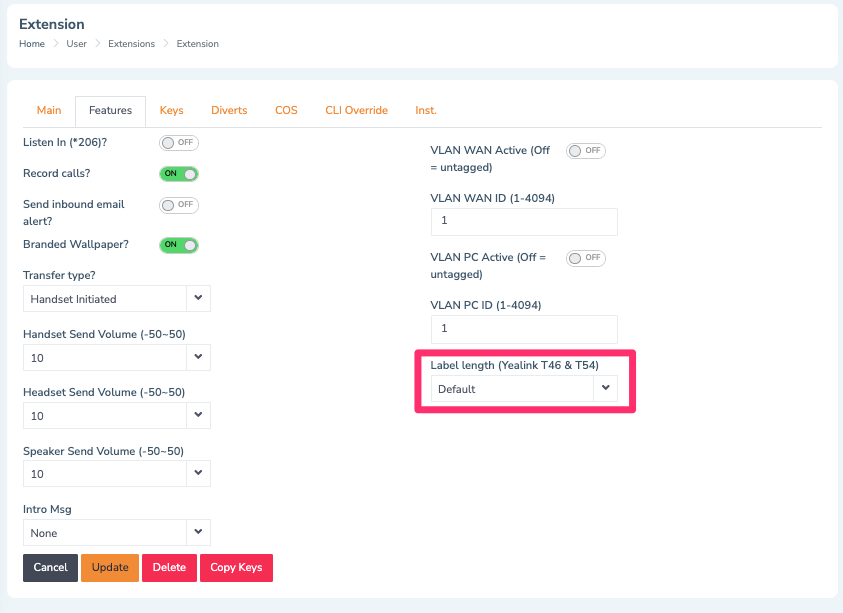
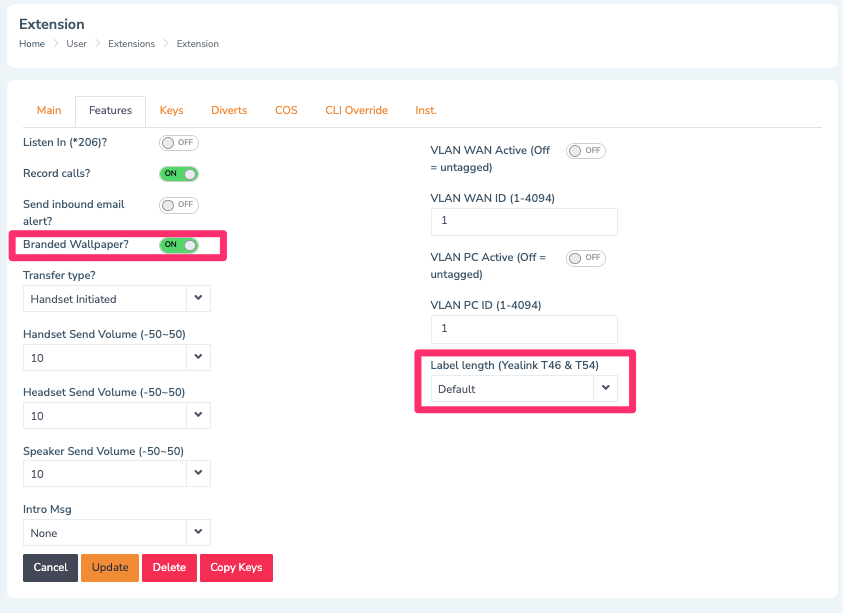
2.1.7

Changed region(s): [[0.0, 0.3719, 0.2776, 0.4339]]

diff --git a/2.1.7/2.1.7.md b/2.1.7/2.1.7.md
@@ -4,7 +4,13 @@
 
 Ability to increase the length of the function keys length on screen
 
-#### Setting the feature (Extensions > Features tab)
+###Branded Wallpaper (all deskphones)
+
+Ability to increase the length of the function keys length on screen
+
+---
+
+#### Setting the features (Extensions > Features tab)
 ![](https://github.com/codebase-technology/Telemedia-Documentation/raw/master/2.1.7/label_len.png)
 
 
